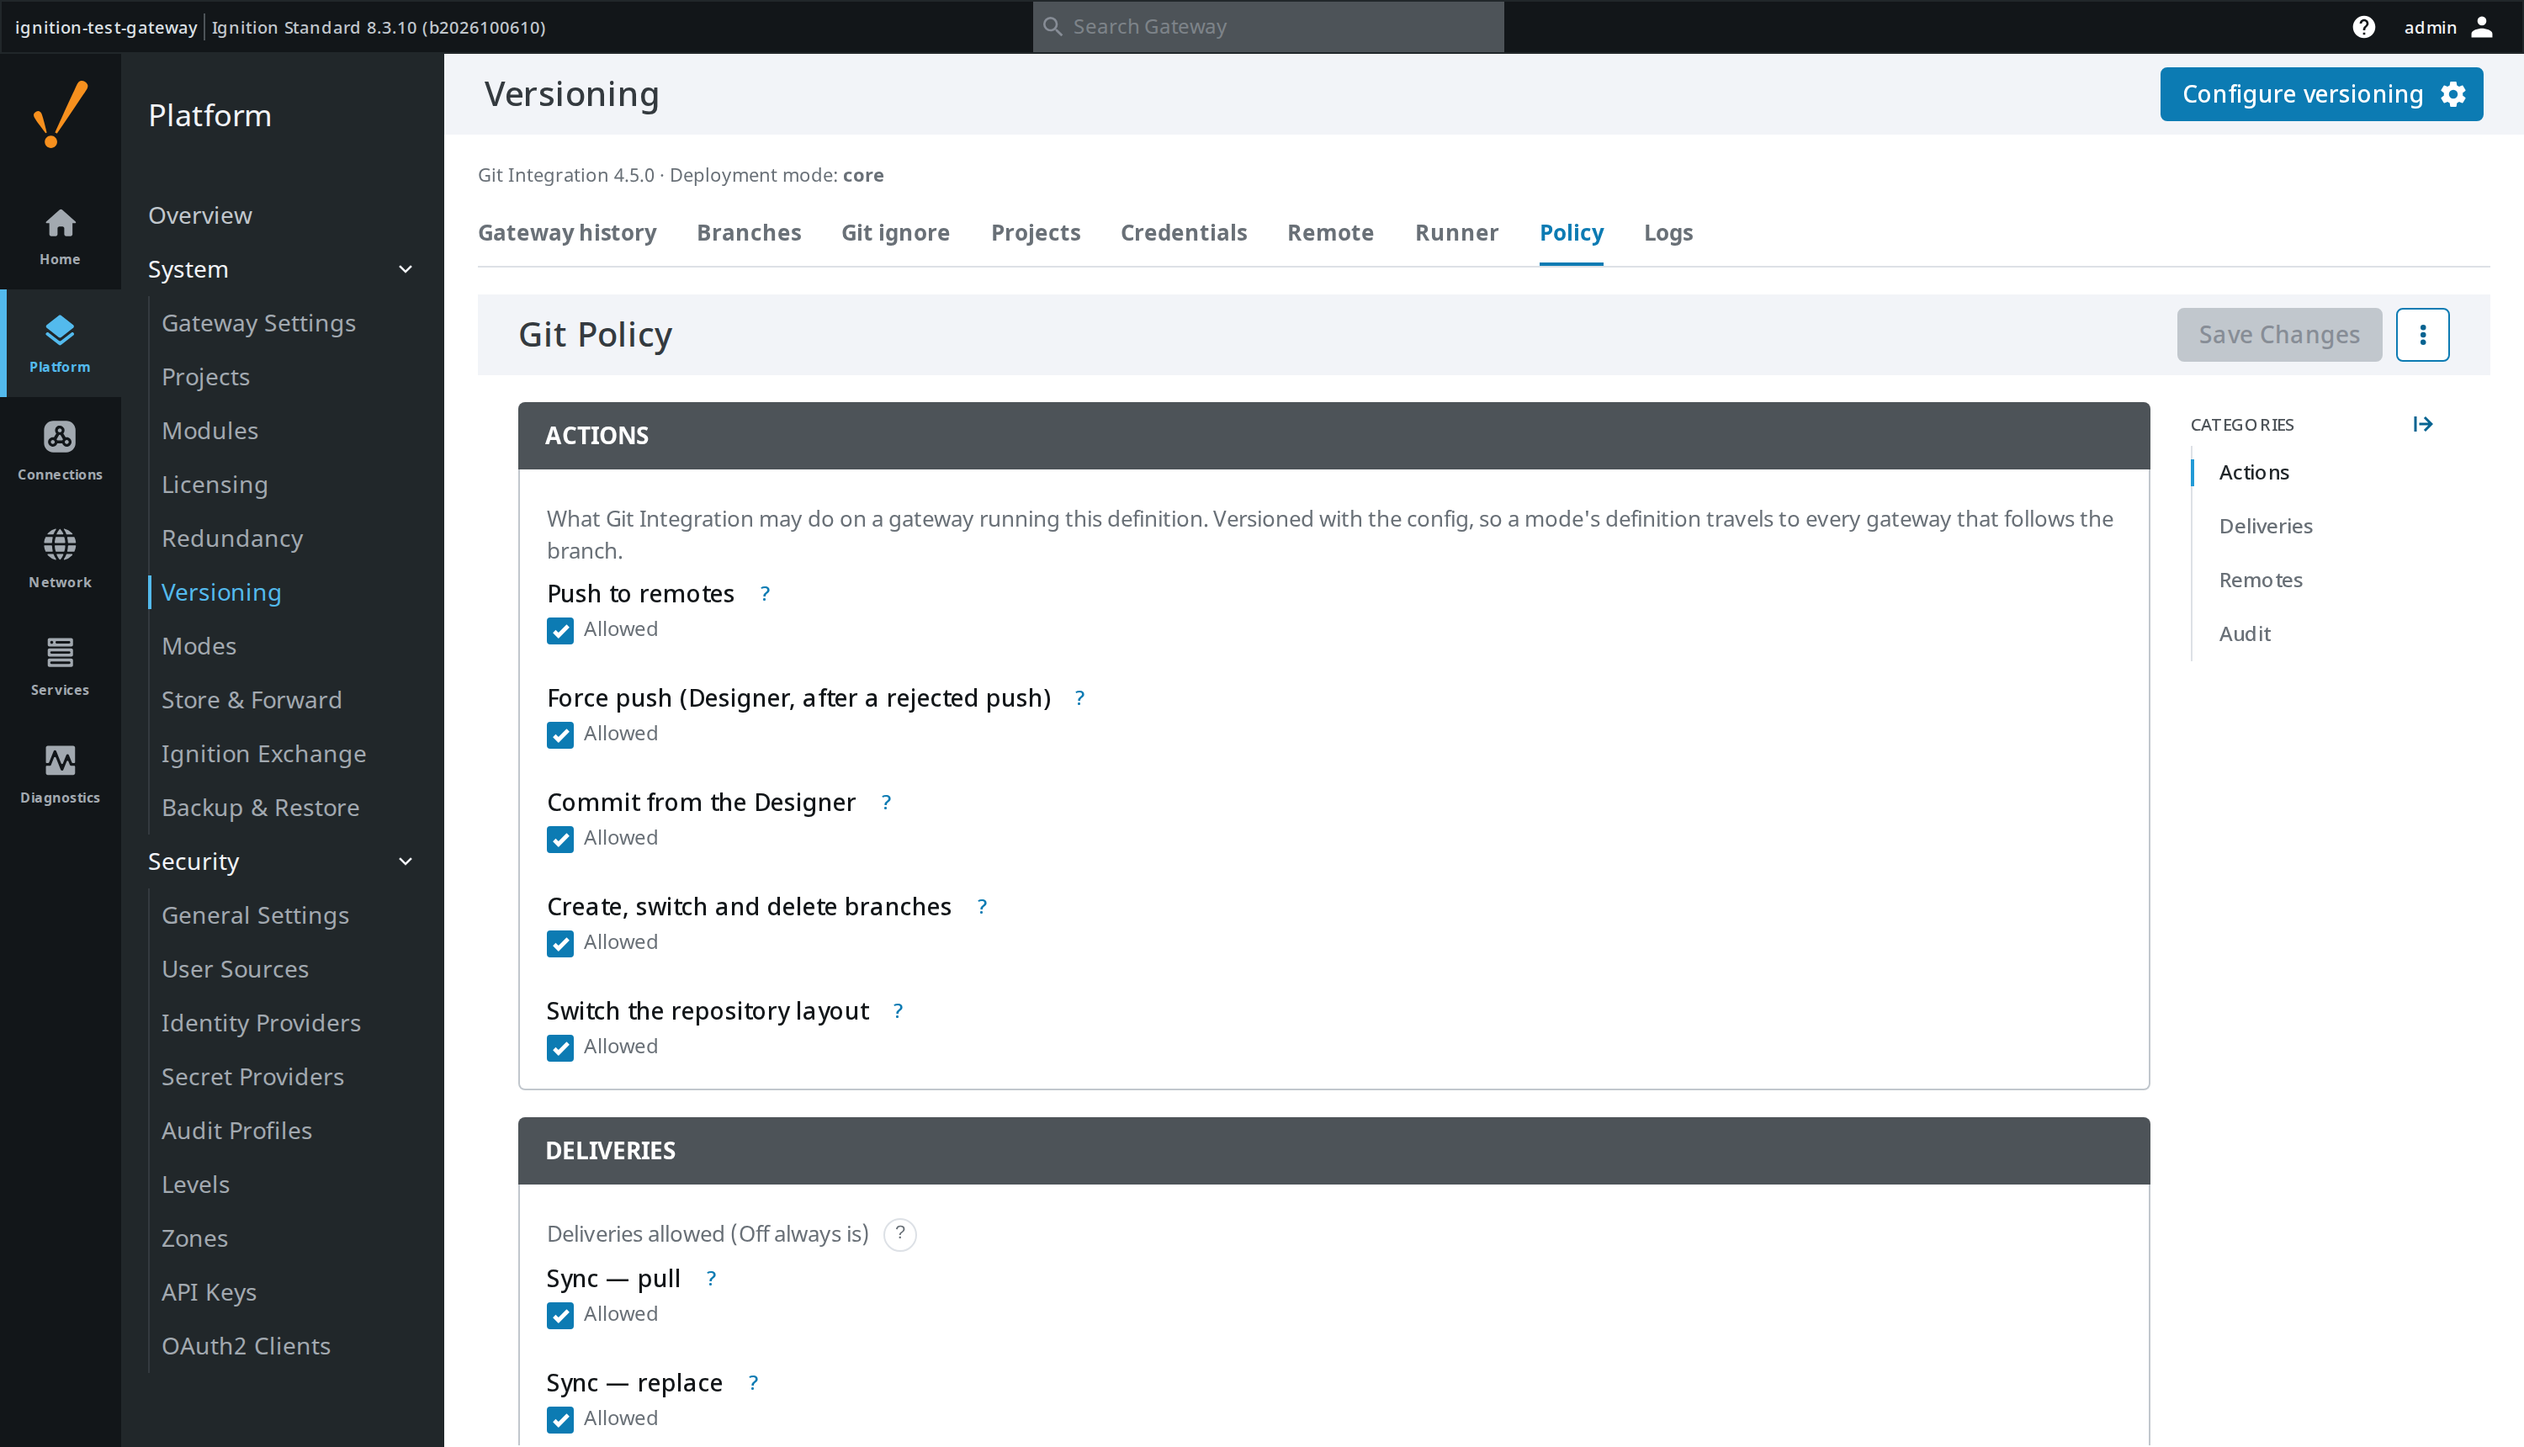
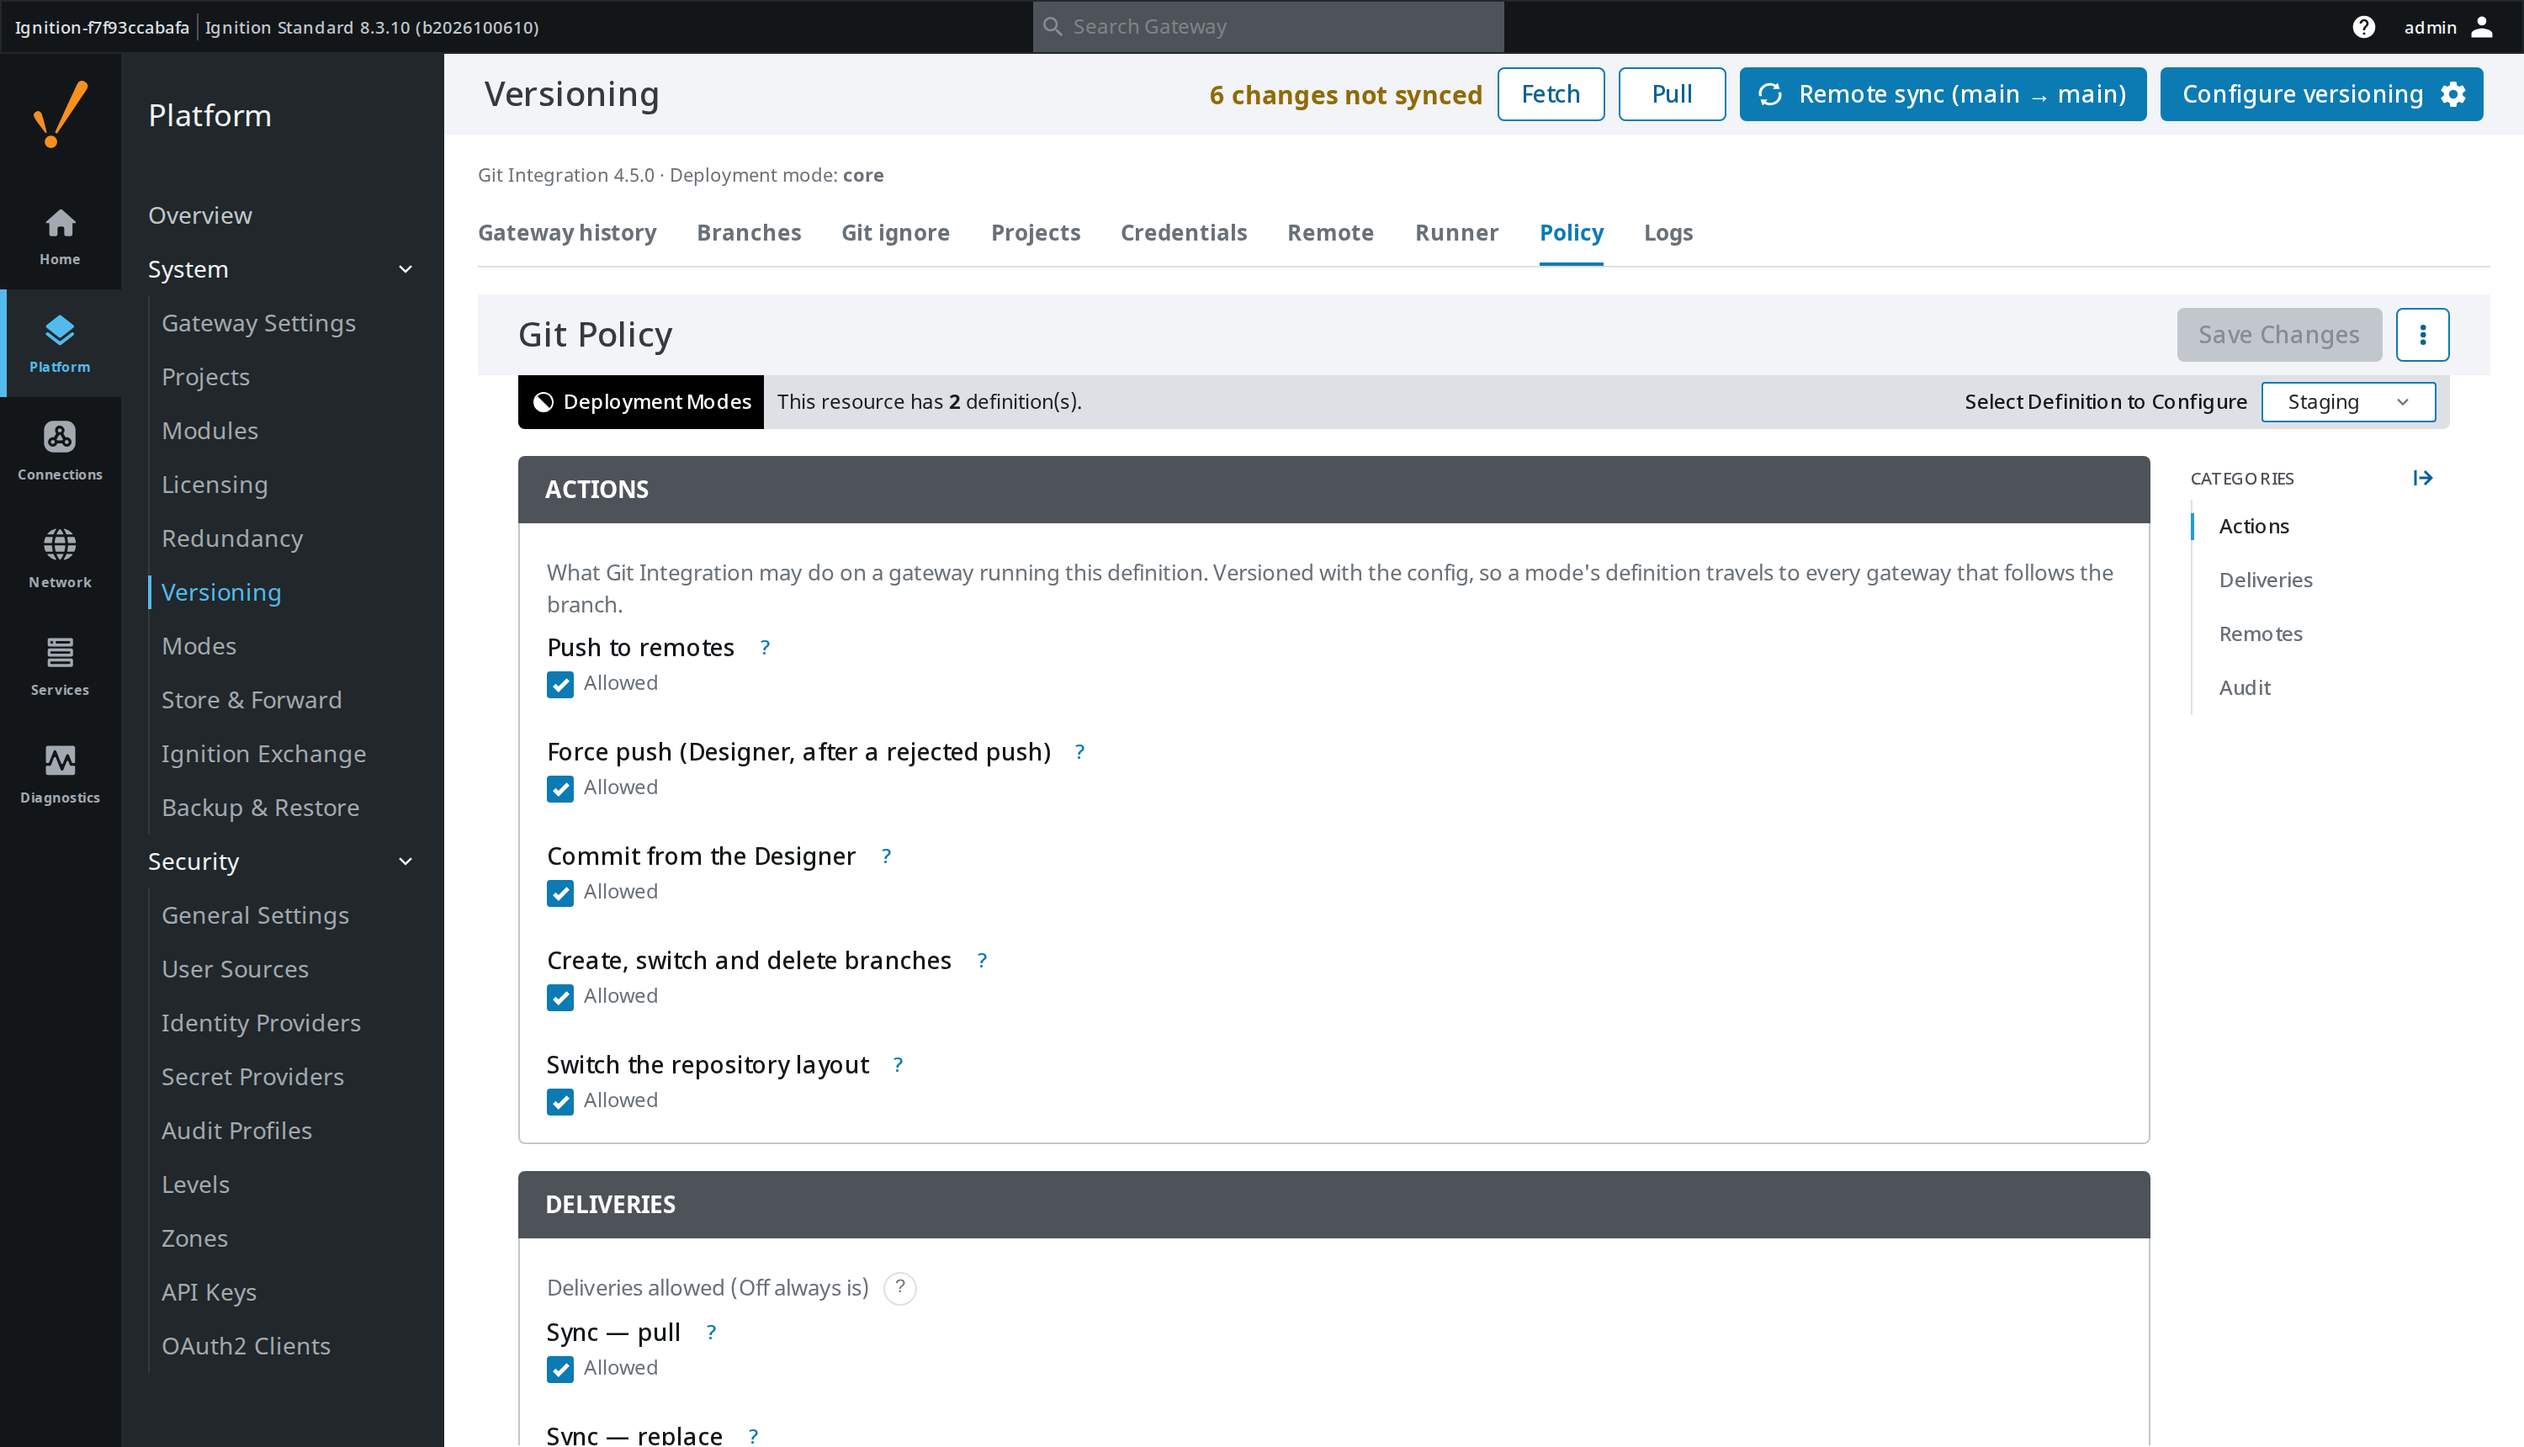
docs: recapture Policy, Projects, project drawer and Credentials on a rig with the suite's fixtures

diff --git a/README.md b/README.md
@@ -47,7 +47,7 @@ project and loads it (Separate layout).
 
 ![Add project from repository: URL, credential, branch and name](docs/images/versioning-add-project.png)
 
-![The Projects tab: each project's repository, delivery and state](docs/images/versioning-projects.png)
+![The Projects tab: each project's branch, remote, delivery and state](docs/images/versioning-projects.png)
 
 ![A project's drawer: repository and delivery](docs/images/versioning-project-drawer.png)
 
@@ -60,7 +60,7 @@ than guessing. A project whose credential has expired, is refused, or cannot
 read its remote says so on the Projects tab, as does one expiring within 14
 days.
 
-![The Credentials tab, empty until one is added; each credential then shows expiry and reach](docs/images/versioning-credentials.png)
+![The Credentials tab: expiry, scope, reach and last check per credential](docs/images/versioning-credentials.png)
 
 **Logs** lists every commit, push, pull, sync, checkout and release since the
 gateway started, with the user, including an unattended one that failed, and why.
@@ -116,7 +116,7 @@ credential and override changes each write one row to the gateway's audit profil
 gateway page or a Designer (with the Designer's host).
 [docs/MODES.md](docs/MODES.md) has the setup.
 
-![The Policy tab: the gateway's settings page](docs/images/versioning-policy.png)
+![The Policy tab: the gateway's settings page, on the Staging definition](docs/images/versioning-policy.png)
 
 This build adds the gateway-side Versioning page, change badges, branches and
 delivery on top of upstream 2.1.0 ([CHANGELOG.md](CHANGELOG.md)). The

diff --git a/docs/MODES.md b/docs/MODES.md
@@ -45,7 +45,7 @@ The default allows everything earlier versions allowed, any host, except
 insecure remotes. A URL with a password in it (`https://user:pass@host`) is
 refused whatever the policy; save the password as a credential.
 
-![The Policy tab: the gateway's settings page](images/versioning-policy.png)
+![The Policy tab: the gateway's settings page, on the Staging definition](images/versioning-policy.png)
 
 A refused action stays on screen, disabled, with the reason: on the page as
 text, in the Designer in the menu or button ("Checkout (off in Prod)"). The
